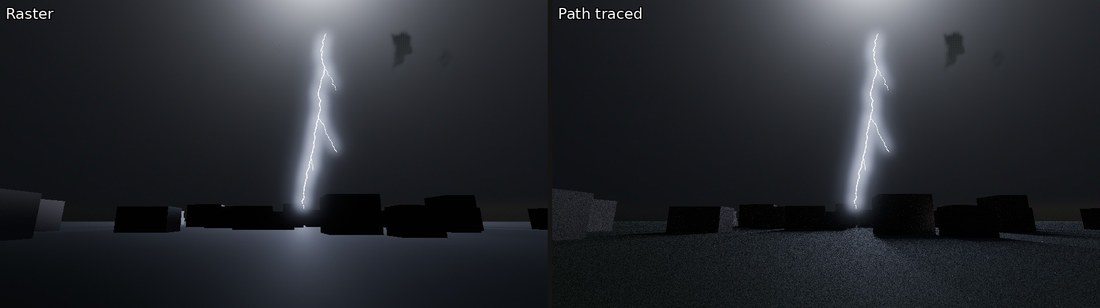
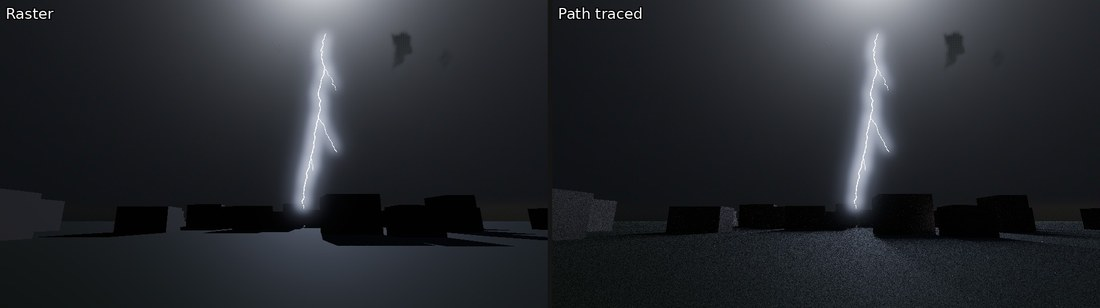
README: lightning raster shadows
Claude-Session: https://claude.ai/code/session_019a7Xd2PZ5gvYQ3NZ7og5rU

Changed region(s): [[0.0618, 0.6721, 0.4945, 0.8182], [0.0, 0.7013, 0.0309, 0.789], [0.0309, 0.6429, 0.0618, 0.6721]]

diff --git a/README.md b/README.md
@@ -324,7 +324,7 @@ Each feature that changes the look or the cost can be turned off with the settin
 - **Wind**: slows near the ground (`roughness_length`); gusts follow the measured spectrum and travel with the wind.
 - **Wind near the ground** (`add_canopy`, `add_shelter_box`, `gust_patch_size`): shelter inside plant canopies and behind buildings; gust patches sweep across fields.
 - **Storms** (`add_storm`): drift with the wind, with a rain core and a downdraft.
-- **Lightning and thunder** (`WeatherLightning3D`): strikes from storm cells at a rate set by cloud-top height, lit by their own channel under path tracing, with thunder made from the channel.
+- **Lightning and thunder** (`WeatherLightning3D`): strikes from storm cells at a rate set by cloud-top height, lit by their own channel under path tracing, with sharp shadows in raster too (`raster_shadow_distance`) and thunder made from the channel.
 - **Wet surfaces and puddles** (`surface_storage`, `puddle_drain_rate`, `temperature`, `humidity`): fill with rain and dry by evaporation; materials with Wetness on darken and gloss up.
 - **Followers**: water waves grow with the weather's wind (`follow_weather`); cloth and hair move in it (`weather_wind`).
 
@@ -340,7 +340,7 @@ Each feature that changes the look or the cost can be turned off with the settin
 
 ![A lightning strike among blocks, raster and path traced](docs/media/weather-lightning.jpg)
 
-*Lightning: under path tracing the channel lights the ground and the faces of the blocks.*
+*Lightning: the channel lights the ground and casts sharp shadows from the blocks, raster and path traced.*
 
 </details>
 

diff --git a/changelog.d/readme-lightning-shadows.md b/changelog.d/readme-lightning-shadows.md
@@ -1,0 +1,3 @@
+### Changed
+
+- README: lightning raster shadows.
